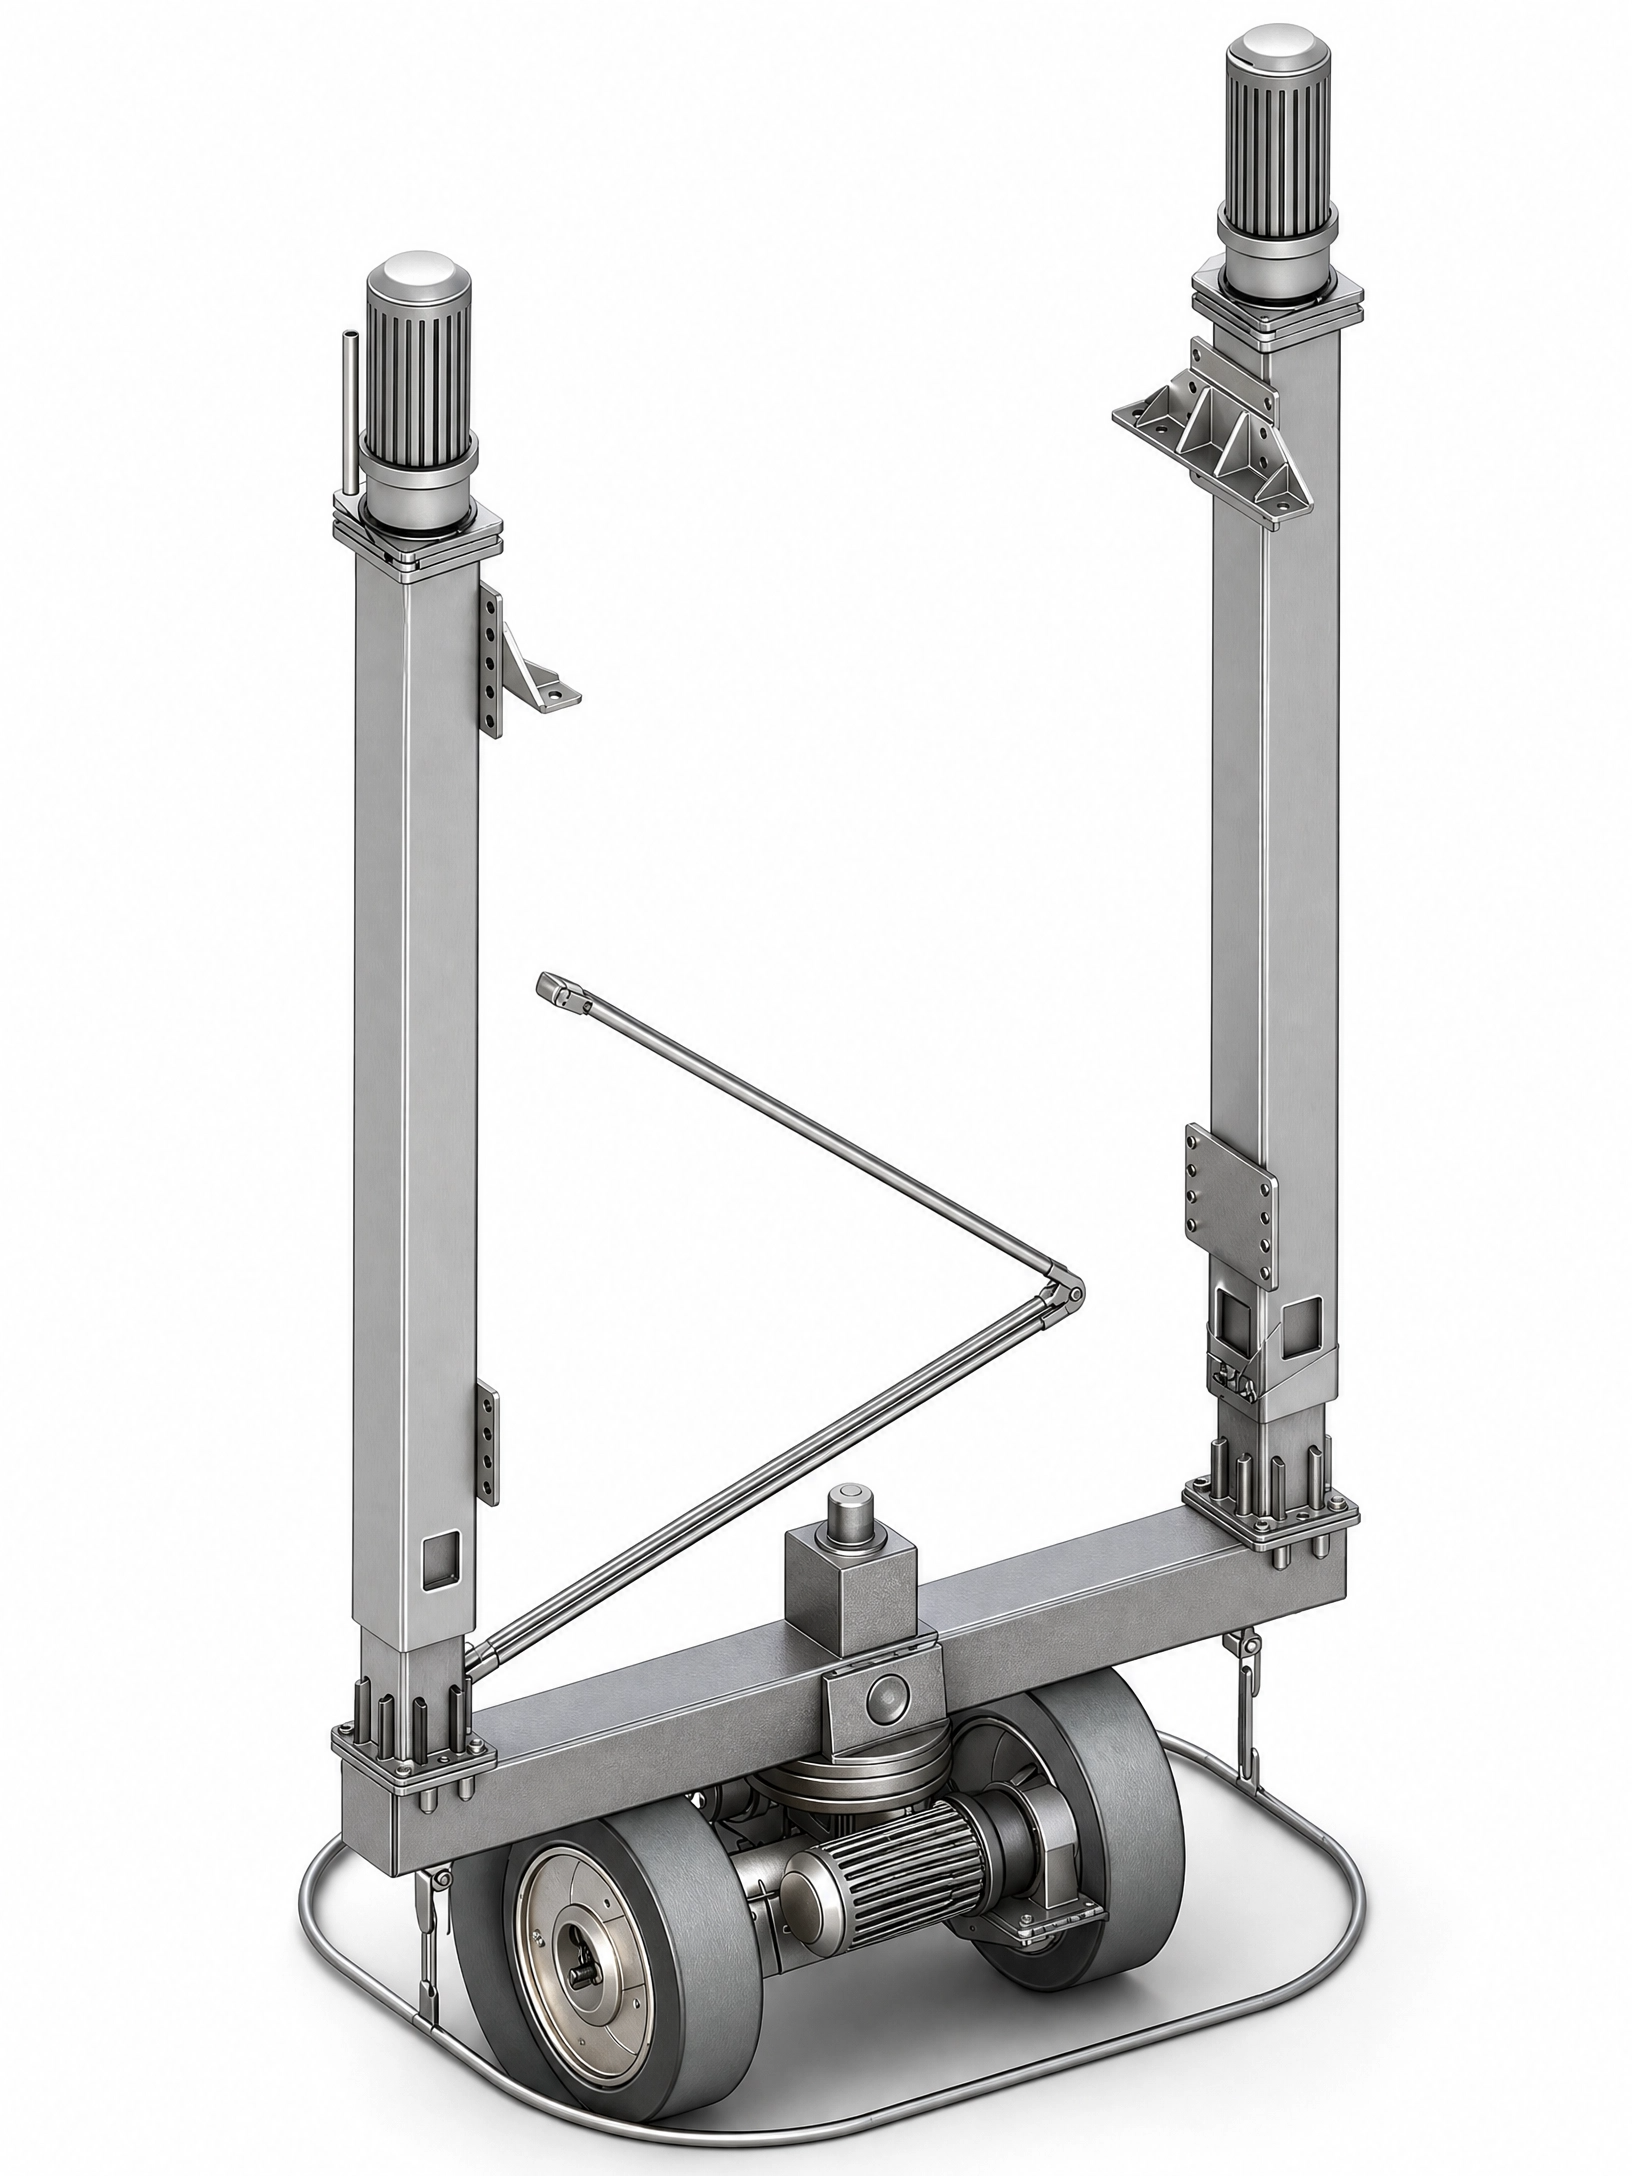
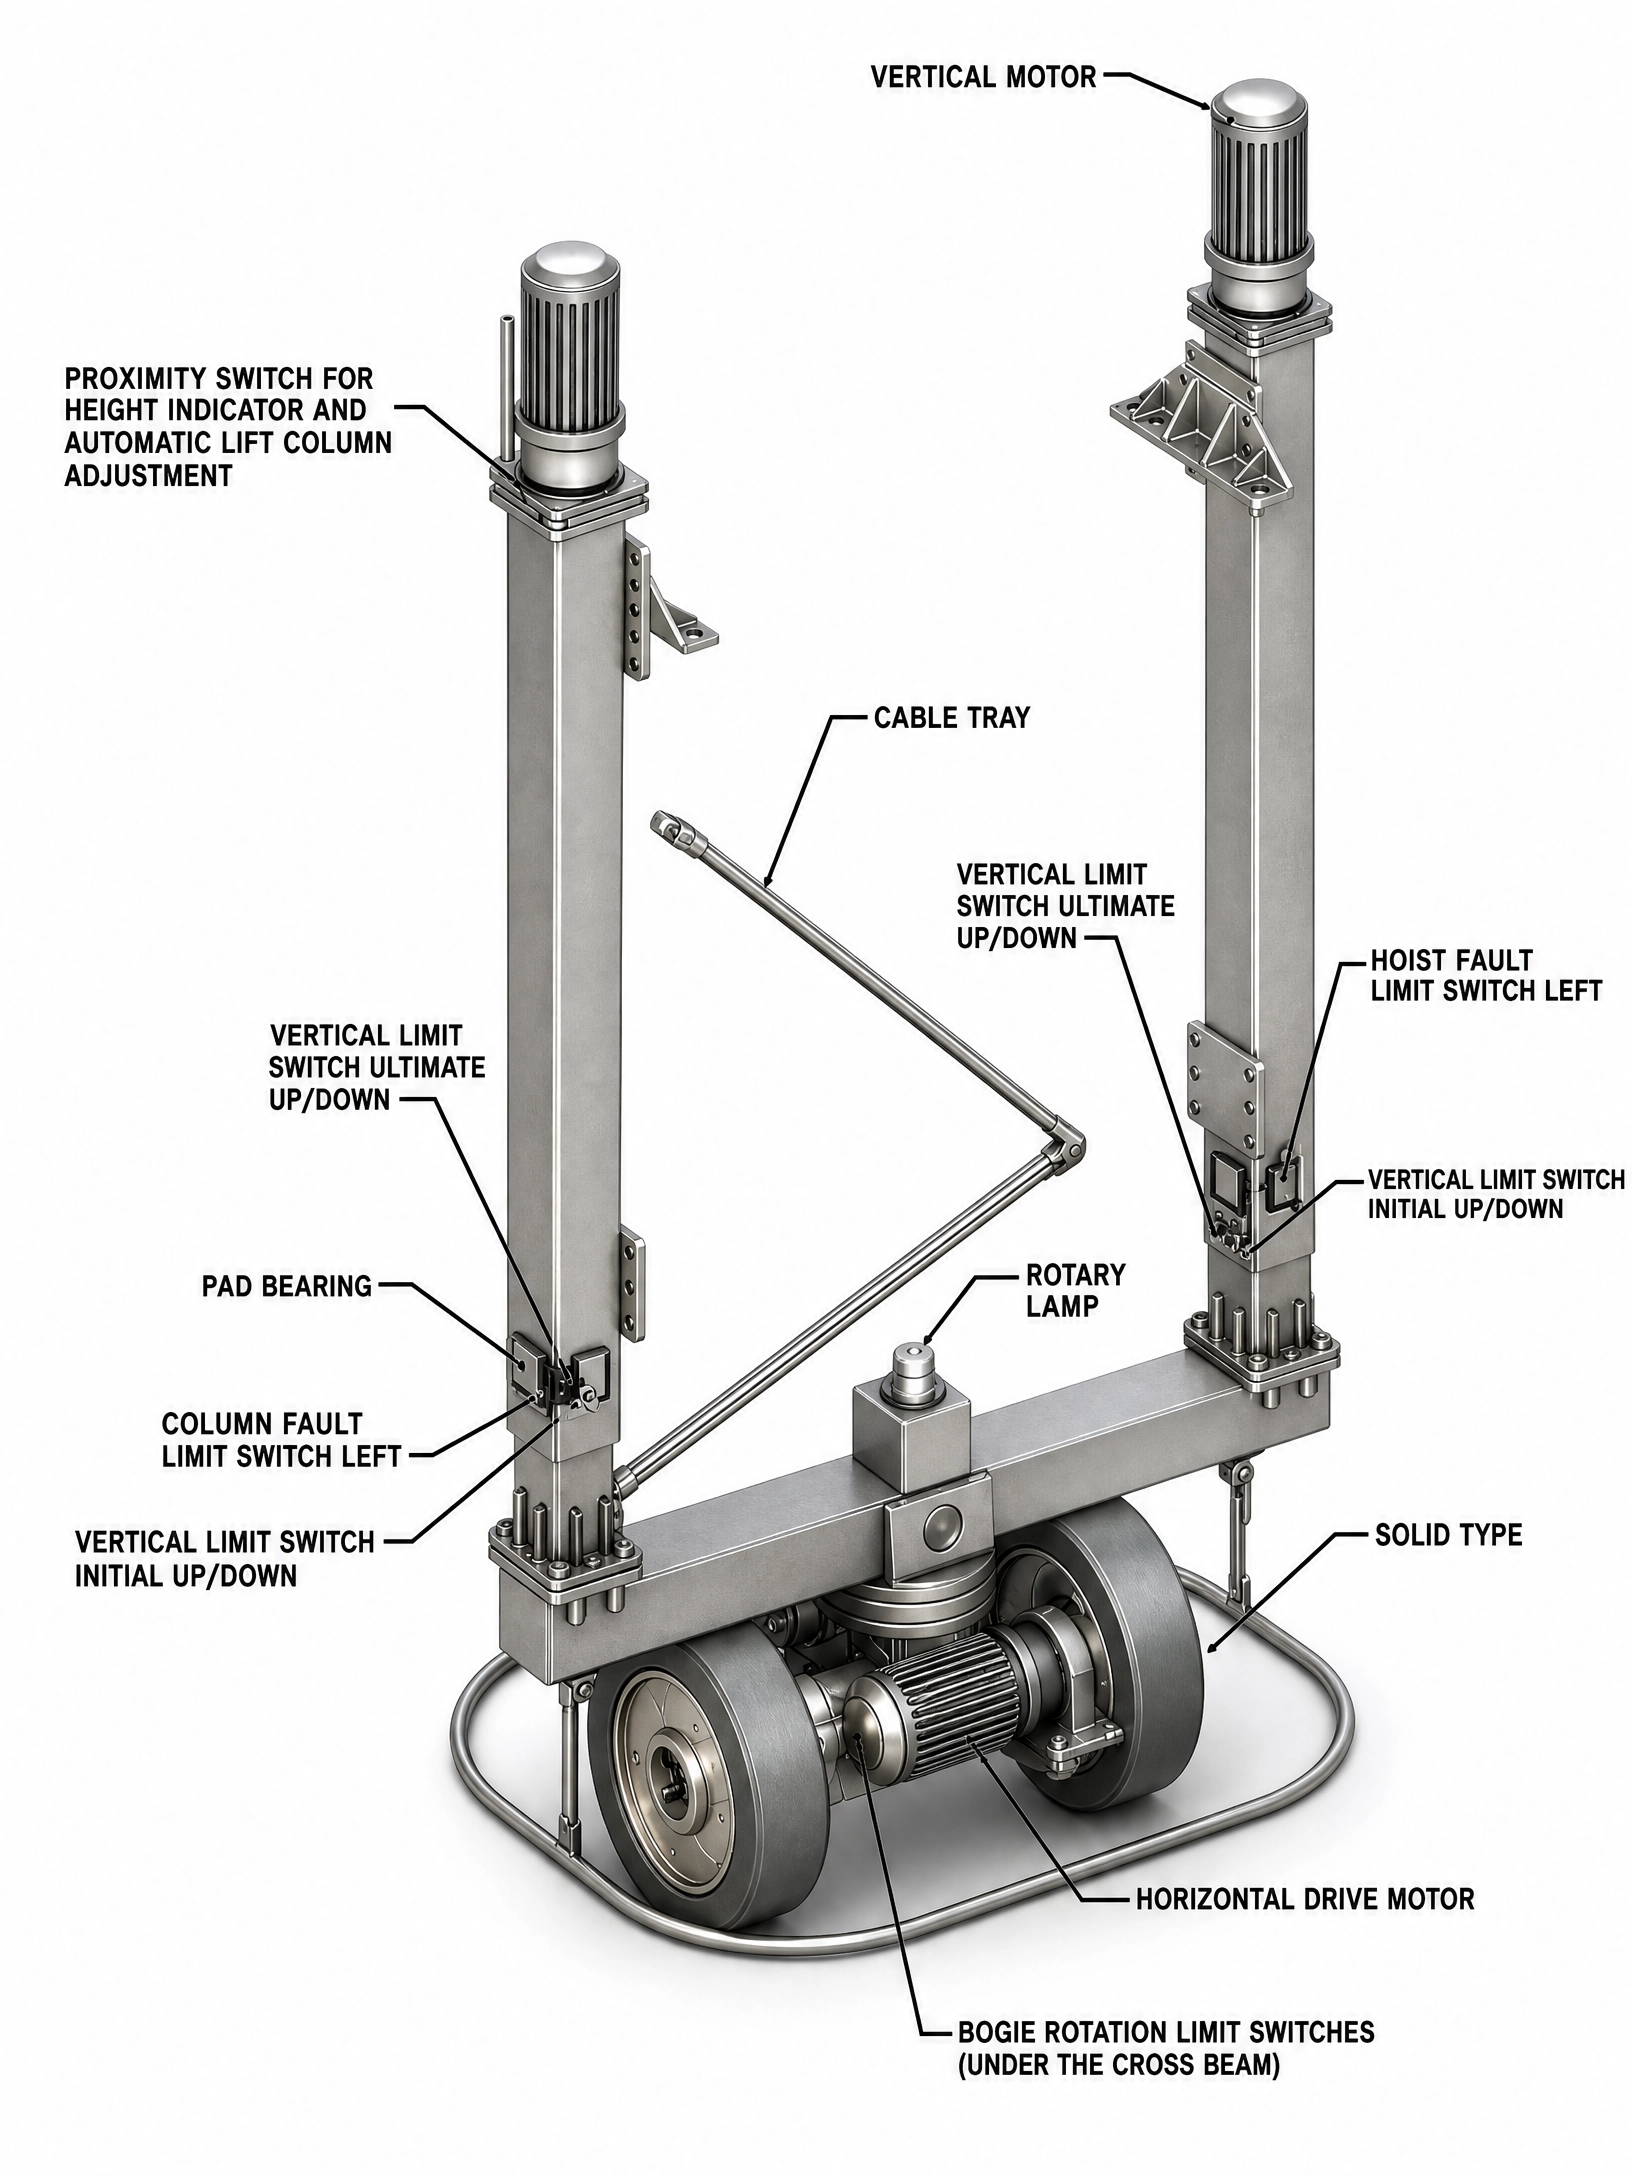
memperbaiki landing page,login page

diff --git a/resources/views/welcome.blade.php b/resources/views/welcome.blade.php
@@ -114,24 +114,27 @@
 
             <div class="flex flex-col sm:flex-row gap-4 justify-center mt-2 w-full sm:w-auto">
                 @auth
-                    <a href="{{ route('dashboard') }}" 
-                       class="px-8 py-4 rounded-xl bg-gradient-to-r from-blue-600 to-indigo-600 hover:from-blue-500 hover:to-indigo-500 text-white text-base font-semibold shadow-lg shadow-blue-500/20 hover:shadow-blue-500/30 transition-premium flex items-center justify-center gap-2">
+                    <a href="{{ route('dashboard') }}"
+                       style="display:inline-flex;align-items:center;justify-content:center;gap:0.5rem;padding:1rem 2rem;border-radius:0.75rem;background:linear-gradient(to right,#2563eb,#4f46e5);color:#fff;font-size:1rem;font-weight:600;text-decoration:none;box-shadow:0 4px 14px rgba(37,99,235,0.2);transition:opacity 0.3s;"
+                       onmouseover="this.style.opacity='0.9'" onmouseout="this.style.opacity='1'">
                         Mulai Belajar Sekarang
-                        <svg class="w-4 h-4" fill="none" viewBox="0 0 24 24" stroke="currentColor" stroke-width="2">
+                        <svg style="width:1rem;height:1rem;flex-shrink:0;" fill="none" viewBox="0 0 24 24" stroke="currentColor" stroke-width="2">
                             <path stroke-linecap="round" stroke-linejoin="round" d="M14 5l7 7m0 0l-7 7m7-7H3" />
                         </svg>
                     </a>
                 @else
-                    <a href="{{ route('login') }}" 
-                       class="px-8 py-4 rounded-xl bg-gradient-to-r from-blue-600 to-indigo-600 hover:from-blue-500 hover:to-indigo-500 text-white text-base font-semibold shadow-lg shadow-blue-500/20 hover:shadow-blue-500/30 transition-premium flex items-center justify-center gap-2">
-                        Masuk & Mulai Belajar
-                        <svg class="w-4 h-4" fill="none" viewBox="0 0 24 24" stroke="currentColor" stroke-width="2">
+                    <a href="{{ route('login') }}"
+                       style="display:inline-flex;align-items:center;justify-content:center;gap:0.5rem;padding:1rem 2rem;border-radius:0.75rem;background:linear-gradient(to right,#2563eb,#4f46e5);color:#fff;font-size:1rem;font-weight:600;text-decoration:none;box-shadow:0 4px 14px rgba(37,99,235,0.2);transition:opacity 0.3s;"
+                       onmouseover="this.style.opacity='0.9'" onmouseout="this.style.opacity='1'">
+                        Masuk &amp; Mulai Belajar
+                        <svg style="width:1rem;height:1rem;flex-shrink:0;" fill="none" viewBox="0 0 24 24" stroke="currentColor" stroke-width="2">
                             <path stroke-linecap="round" stroke-linejoin="round" d="M14 5l7 7m0 0l-7 7m7-7H3" />
                         </svg>
                     </a>
                 @endauth
-                <a href="#features" 
-                   class="px-8 py-4 rounded-xl border border-slate-200 hover:border-slate-300 text-slate-600 hover:text-slate-850 text-base font-medium bg-white shadow-sm transition-premium flex items-center justify-center gap-2">
+                <a href="#features"
+                   style="display:inline-flex;align-items:center;justify-content:center;gap:0.5rem;padding:1rem 2rem;border-radius:0.75rem;border:1px solid #e2e8f0;background:#fff;color:#475569;font-size:1rem;font-weight:500;text-decoration:none;box-shadow:0 1px 3px rgba(0,0,0,0.06);transition:border-color 0.3s, color 0.3s;"
+                   onmouseover="this.style.borderColor='#94a3b8';this.style.color='#1e293b';" onmouseout="this.style.borderColor='#e2e8f0';this.style.color='#475569';">
                     Tinjau Fitur
                 </a>
             </div>

diff --git a/resources/views/auth/login.blade.php b/resources/views/auth/login.blade.php
@@ -68,11 +68,12 @@
 
         <!-- Submit Action -->
         <div class="mt-2">
-            <button type="submit" 
-                    class="w-full py-3 px-5 rounded-xl bg-gradient-to-r from-blue-600 to-indigo-600 hover:from-blue-500 hover:to-indigo-500 text-white text-base font-semibold shadow-md hover:shadow-lg transition duration-300 flex items-center justify-center gap-2">
+            <button type="submit"
+                    style="background: linear-gradient(to right, #2563eb, #4f46e5); color: #fff; width: 100%; padding: 0.75rem 1.25rem; border-radius: 0.75rem; font-size: 1rem; font-weight: 600; border: none; cursor: pointer; display: flex; align-items: center; justify-content: center; gap: 0.5rem; box-shadow: 0 4px 14px rgba(37,99,235,0.25); transition: box-shadow 0.3s, opacity 0.3s;"
+                    onmouseover="this.style.opacity='0.9'" onmouseout="this.style.opacity='1'">
                 <span>Masuk Sekarang</span>
-                <svg class="w-4 h-4" fill="none" viewBox="0 0 24 24" stroke="currentColor" stroke-width="2">
-                    <path stroke-linecap="round" stroke-linejoin="round" d="M11 16l-4-4m0 0l4-4m-4 4h14.5" />
+                <svg style="width:1rem;height:1rem;flex-shrink:0;" fill="none" viewBox="0 0 24 24" stroke="currentColor" stroke-width="2">
+                    <path stroke-linecap="round" stroke-linejoin="round" d="M14 5l7 7m0 0l-7 7m7-7H3" />
                 </svg>
             </button>
         </div>